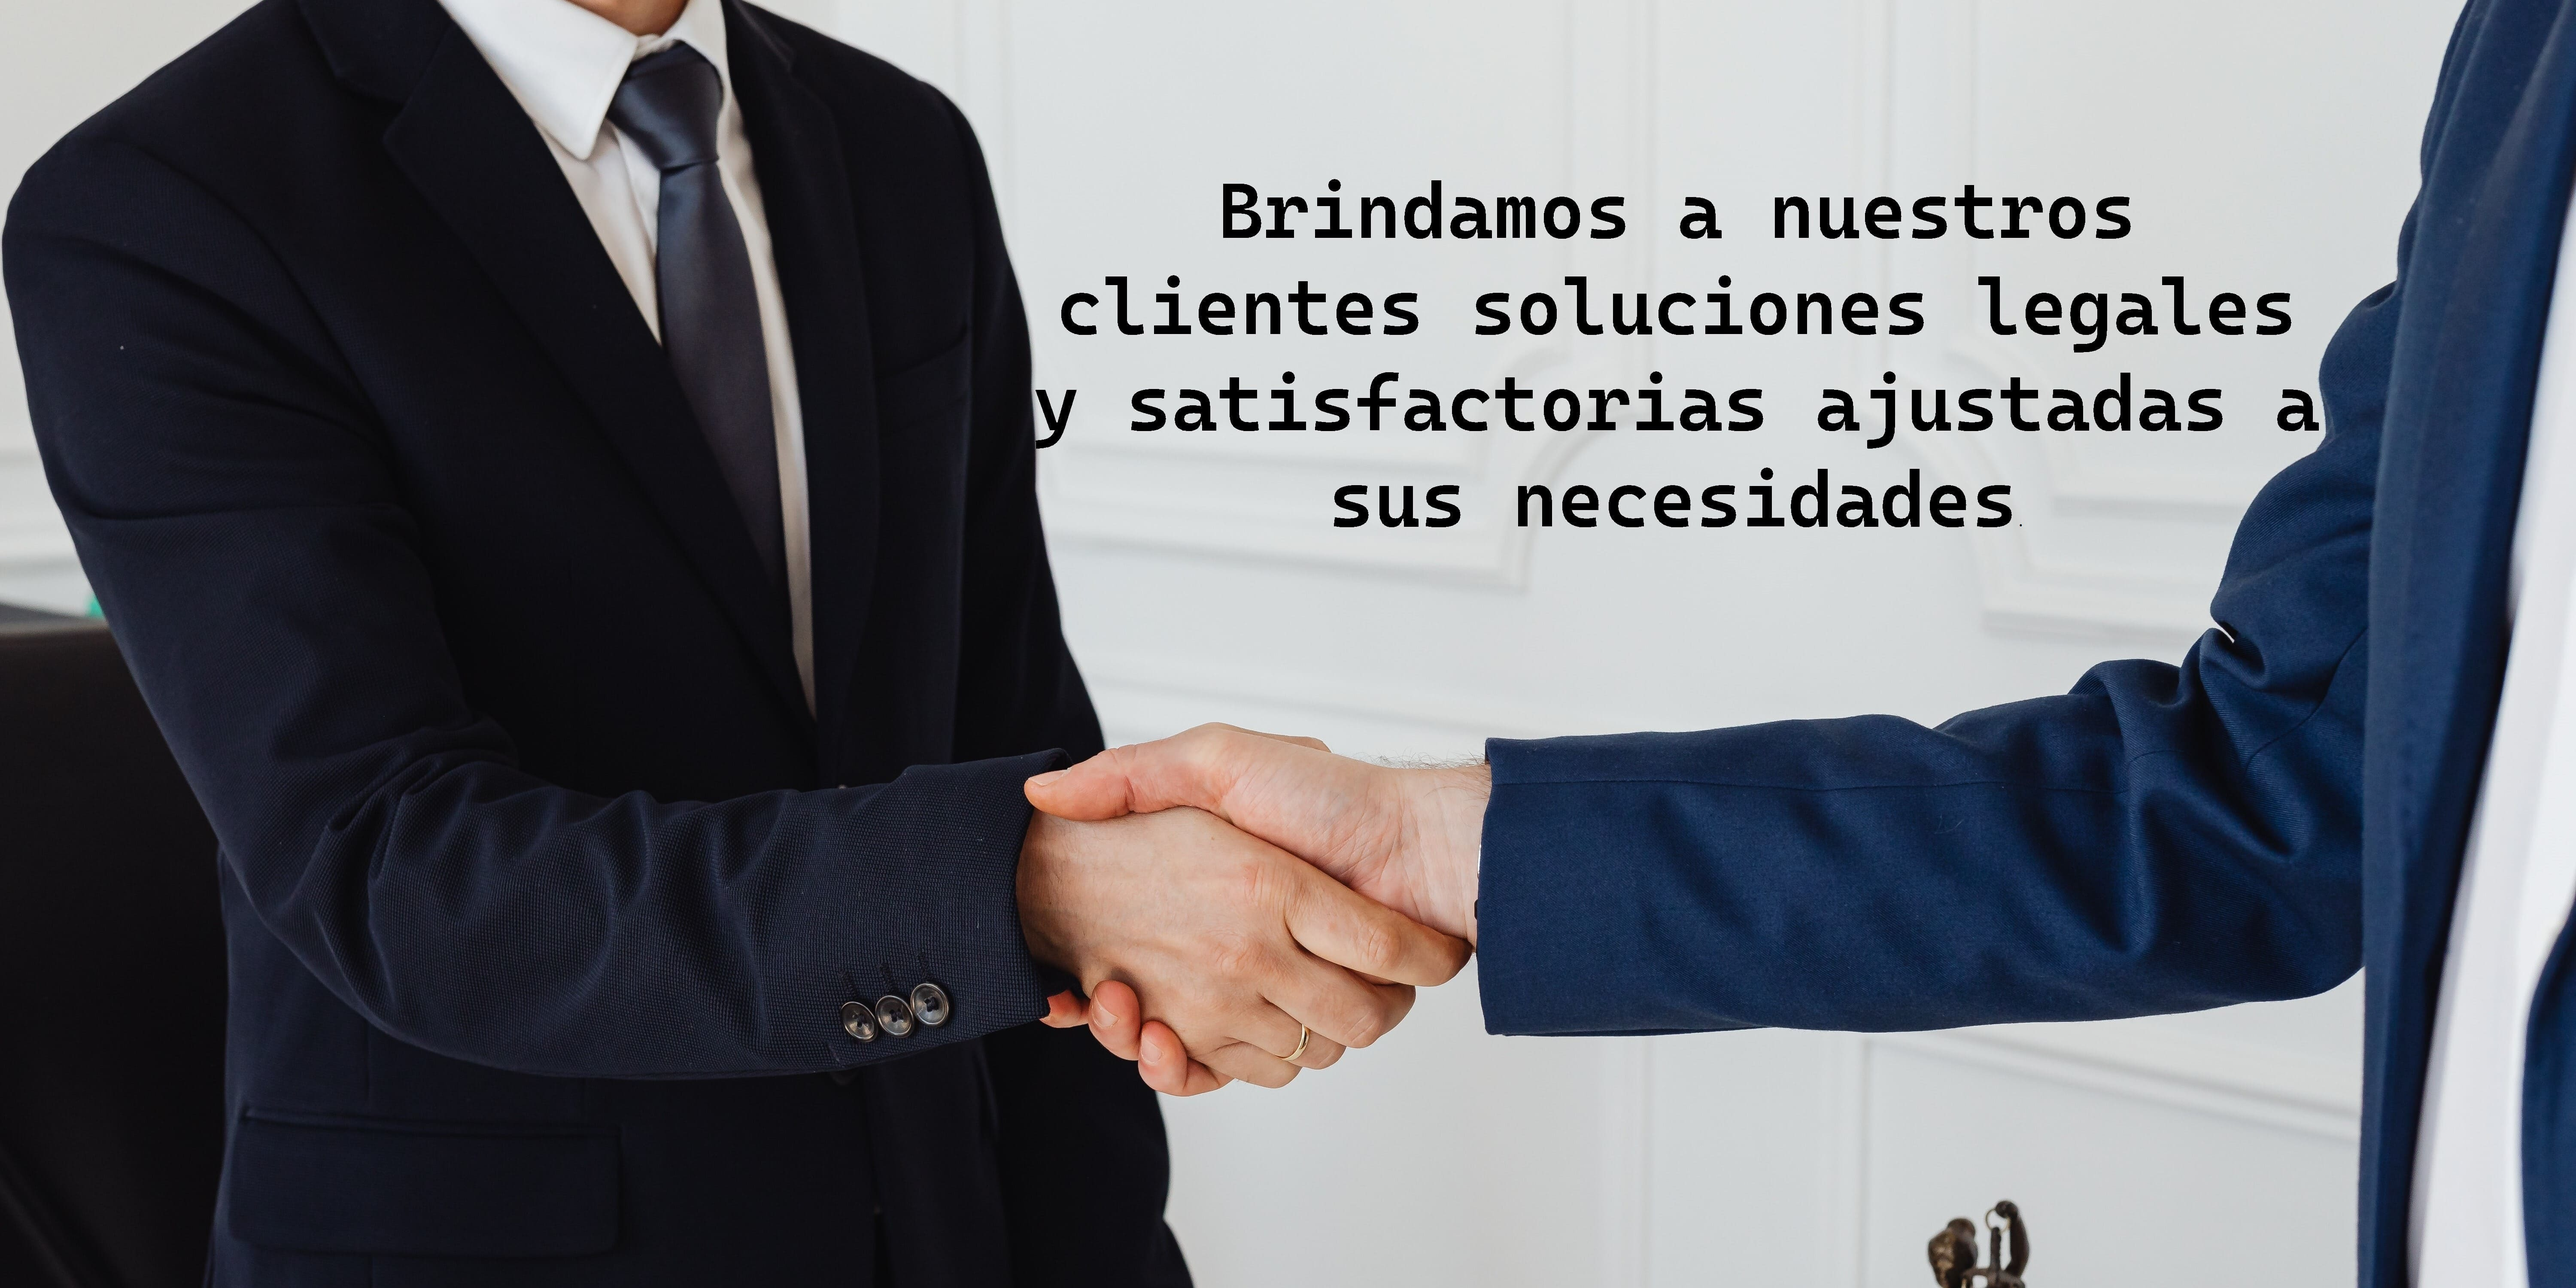
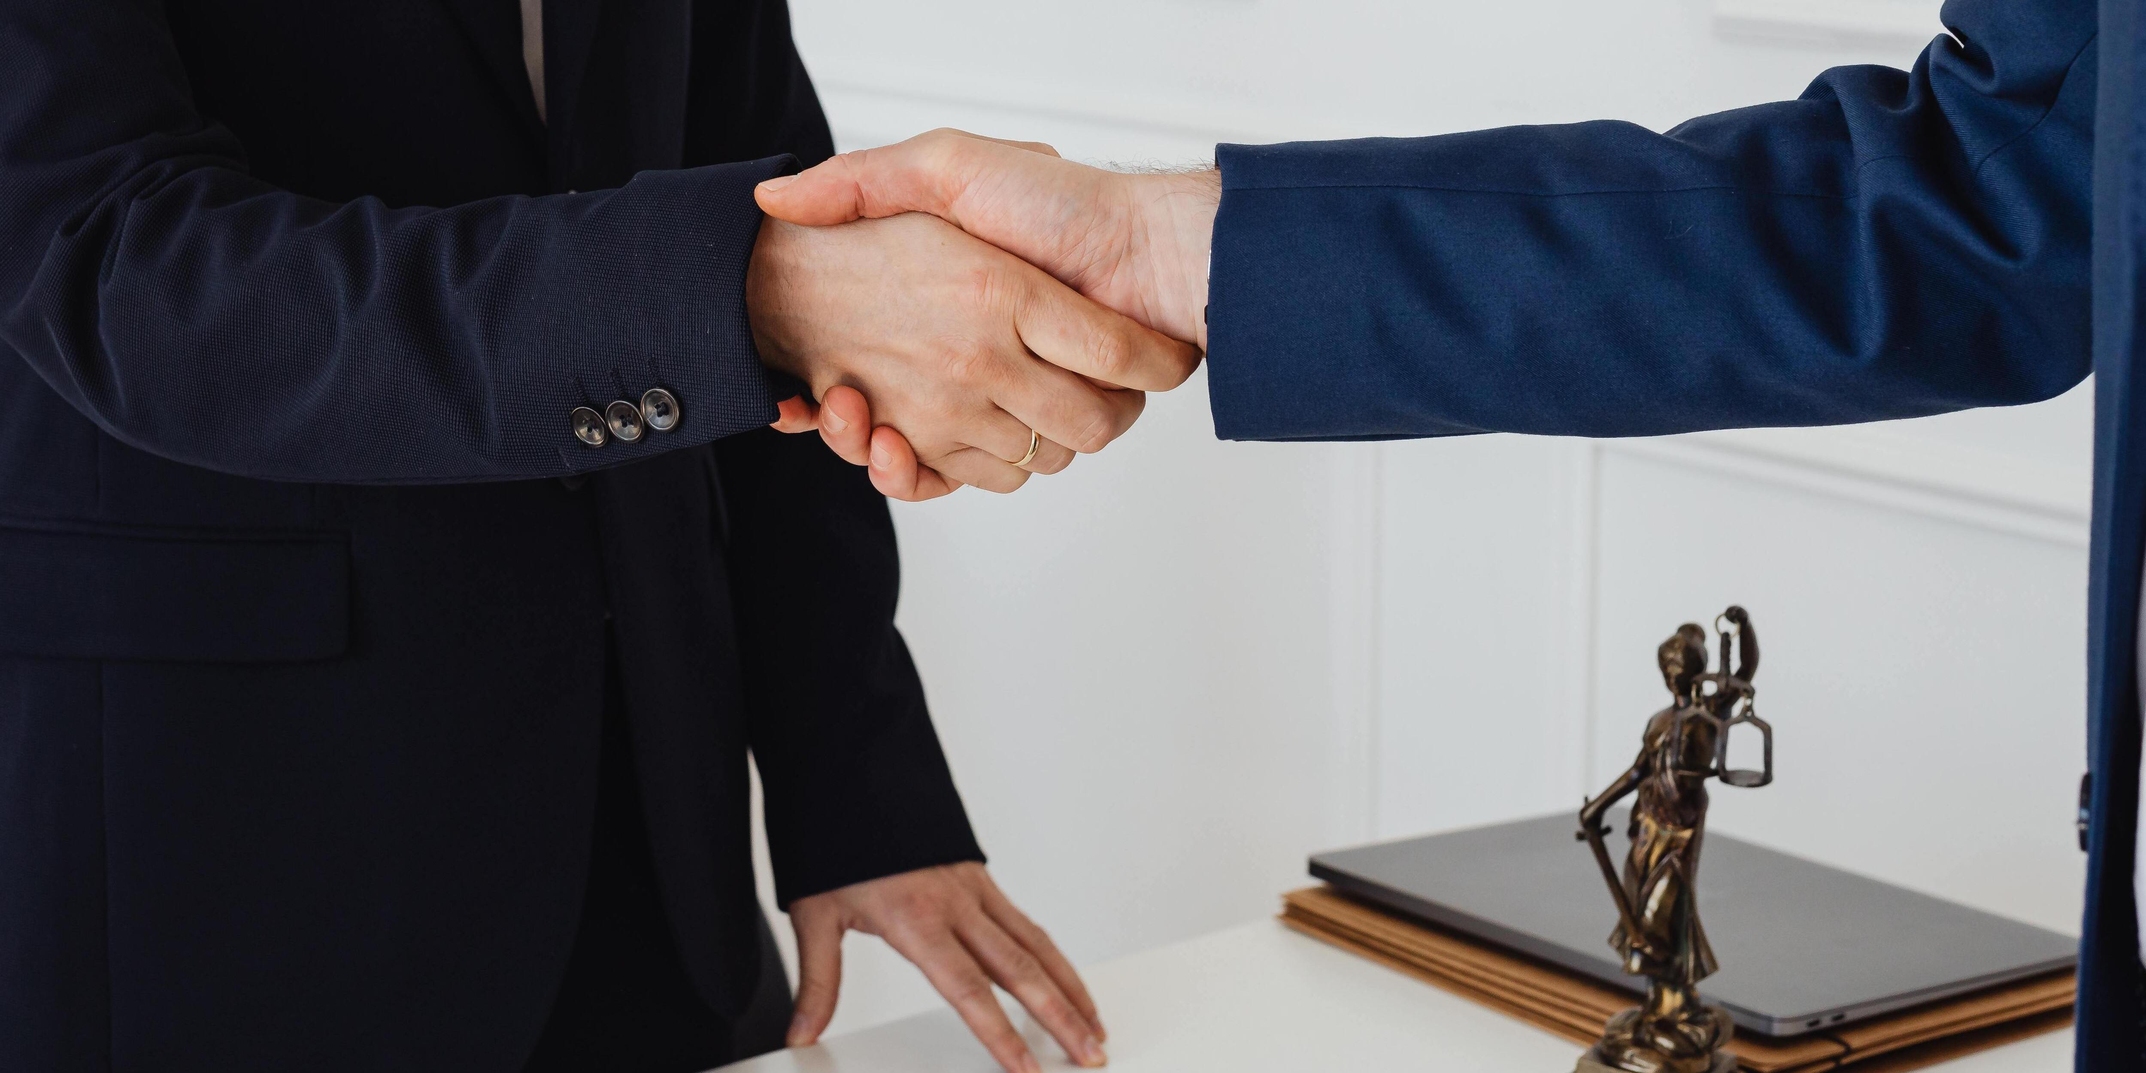
mejoras del carrucel

diff --git a/index.html b/index.html
@@ -69,20 +69,23 @@
                       <button type="button" data-bs-target="#carouselExampleDark" data-bs-slide-to="2" aria-label="Slide 3"></button>
                     </div>
                     <div class="carousel-inner">
-                      <div class="carousel-item active" data-bs-interval="10000">
-                        <img src="./aseets/img/inicio.jpg" class="d-block w-100" alt="inicio">
-                        <div class="carousel-caption d-none d-md-block">
+                        <div class="carousel-item active" data-bs-interval="10000">
+                            <img src="./aseets/img/inicio.jpg" class="d-block w-100" alt="inicio">
+                            <p class="parrafoinicio">Contamos con profesionales de distintas disciplinas del Derecho orientados a defender sus intereses.</p>
                           
+                    <div class="carousel-caption d-none d-md-block">                        
                         </div>
-                      </div>
+                   </div>
                       <div class="carousel-item" data-bs-interval="2000">
                         <img src="./aseets/img/confianza.jpg" class="d-block w-100" alt="confianza">
-                        <div class="carousel-caption d-none d-md-block">
+                        <p class="parrafoconfianza">Brindamos a nuestros clientes soluciones legales y satisfactorias ajustadas a sus necesidades.</p>
+                      <div class="carousel-caption d-none d-md-block">
                                       
                         </div>
                       </div>
                       <div class="carousel-item">
                         <img src="./aseets/img/papeles.jpg" class="d-block w-100" alt="papeles">
+                        <p class="parrafopapeles">Despidos, Empleo sin registrar, Accidentes de trabajo (ART), Divorcios, régimen de comunicación, visitas y cuota alimentaria, Sucesiones y Testamentos, Accidentes de Tránsito, Jubilaciones y Pensiones.</p>
                         <div class="carousel-caption d-none d-md-block">
                                                   
                         </div>

diff --git a/scss/_index.scss b/scss/_index.scss
@@ -28,6 +28,65 @@
     object-fit: cover;
 }
 
+.parrafoinicio{
+    width: 80%;
+    text-align: center;
+    color: rgb(251, 238, 221);
+    background-color: rgba(33, 143, 227, 0.63);
+    font-size: 60px;
+    position: absolute;
+    top: 300px;
+    left: 120px; 
+}
+
+@media(max-width:800px){
+    .parrafoinicio{
+        font-size: 20px;
+        top: 80px;
+        left: 50px;
+
+    }
+}
+
+
+.parrafoconfianza{
+    width: 80%;
+    text-align: center;
+    color: rgb(251, 238, 221);
+    background-color: rgba(33, 143, 227, 0.63);
+    font-size: 60px;
+    position: absolute;
+    top: 300px;
+    left: 120px;
+}
+@media(max-width:800px){
+    .parrafoconfianza{
+        font-size: 20px;
+        top: 80px;
+        left: 50px;
+
+    }
+}
+
+.parrafopapeles{
+    width: 80%;
+    text-align: center;
+    color: rgb(251, 238, 221);
+    background-color: rgba(33, 143, 227, 0.63);
+    font-size: 50px;
+    position: absolute;
+    top: 220px;
+    left: 120px;
+}
+@media(max-width:800px){
+    .parrafopapeles{
+        font-size: 20px;
+        top: 40px;
+        left: 50px;
+
+    }
+}
+
 .bienv{   
     @include flexdos($texto-centrado,  $texto-principal, 50px);
     text-shadow: 3px -3px 12px rgba(0,0,0,0.6);

diff --git a/scss/estilo.css b/scss/estilo.css
@@ -63,6 +63,60 @@
      object-fit: cover;
 }
 
+.parrafoinicio {
+  width: 80%;
+  text-align: center;
+  color: rgb(251, 238, 221);
+  background-color: rgba(33, 143, 227, 0.63);
+  font-size: 60px;
+  position: absolute;
+  top: 300px;
+  left: 120px;
+}
+
+@media (max-width: 800px) {
+  .parrafoinicio {
+    font-size: 20px;
+    top: 80px;
+    left: 50px;
+  }
+}
+.parrafoconfianza {
+  width: 80%;
+  text-align: center;
+  color: rgb(251, 238, 221);
+  background-color: rgba(33, 143, 227, 0.63);
+  font-size: 60px;
+  position: absolute;
+  top: 300px;
+  left: 120px;
+}
+
+@media (max-width: 800px) {
+  .parrafoconfianza {
+    font-size: 20px;
+    top: 80px;
+    left: 50px;
+  }
+}
+.parrafopapeles {
+  width: 80%;
+  text-align: center;
+  color: rgb(251, 238, 221);
+  background-color: rgba(33, 143, 227, 0.63);
+  font-size: 50px;
+  position: absolute;
+  top: 220px;
+  left: 120px;
+}
+
+@media (max-width: 800px) {
+  .parrafopapeles {
+    font-size: 20px;
+    top: 40px;
+    left: 50px;
+  }
+}
 .bienv {
   text-align: center;
   font-size: 70px;
